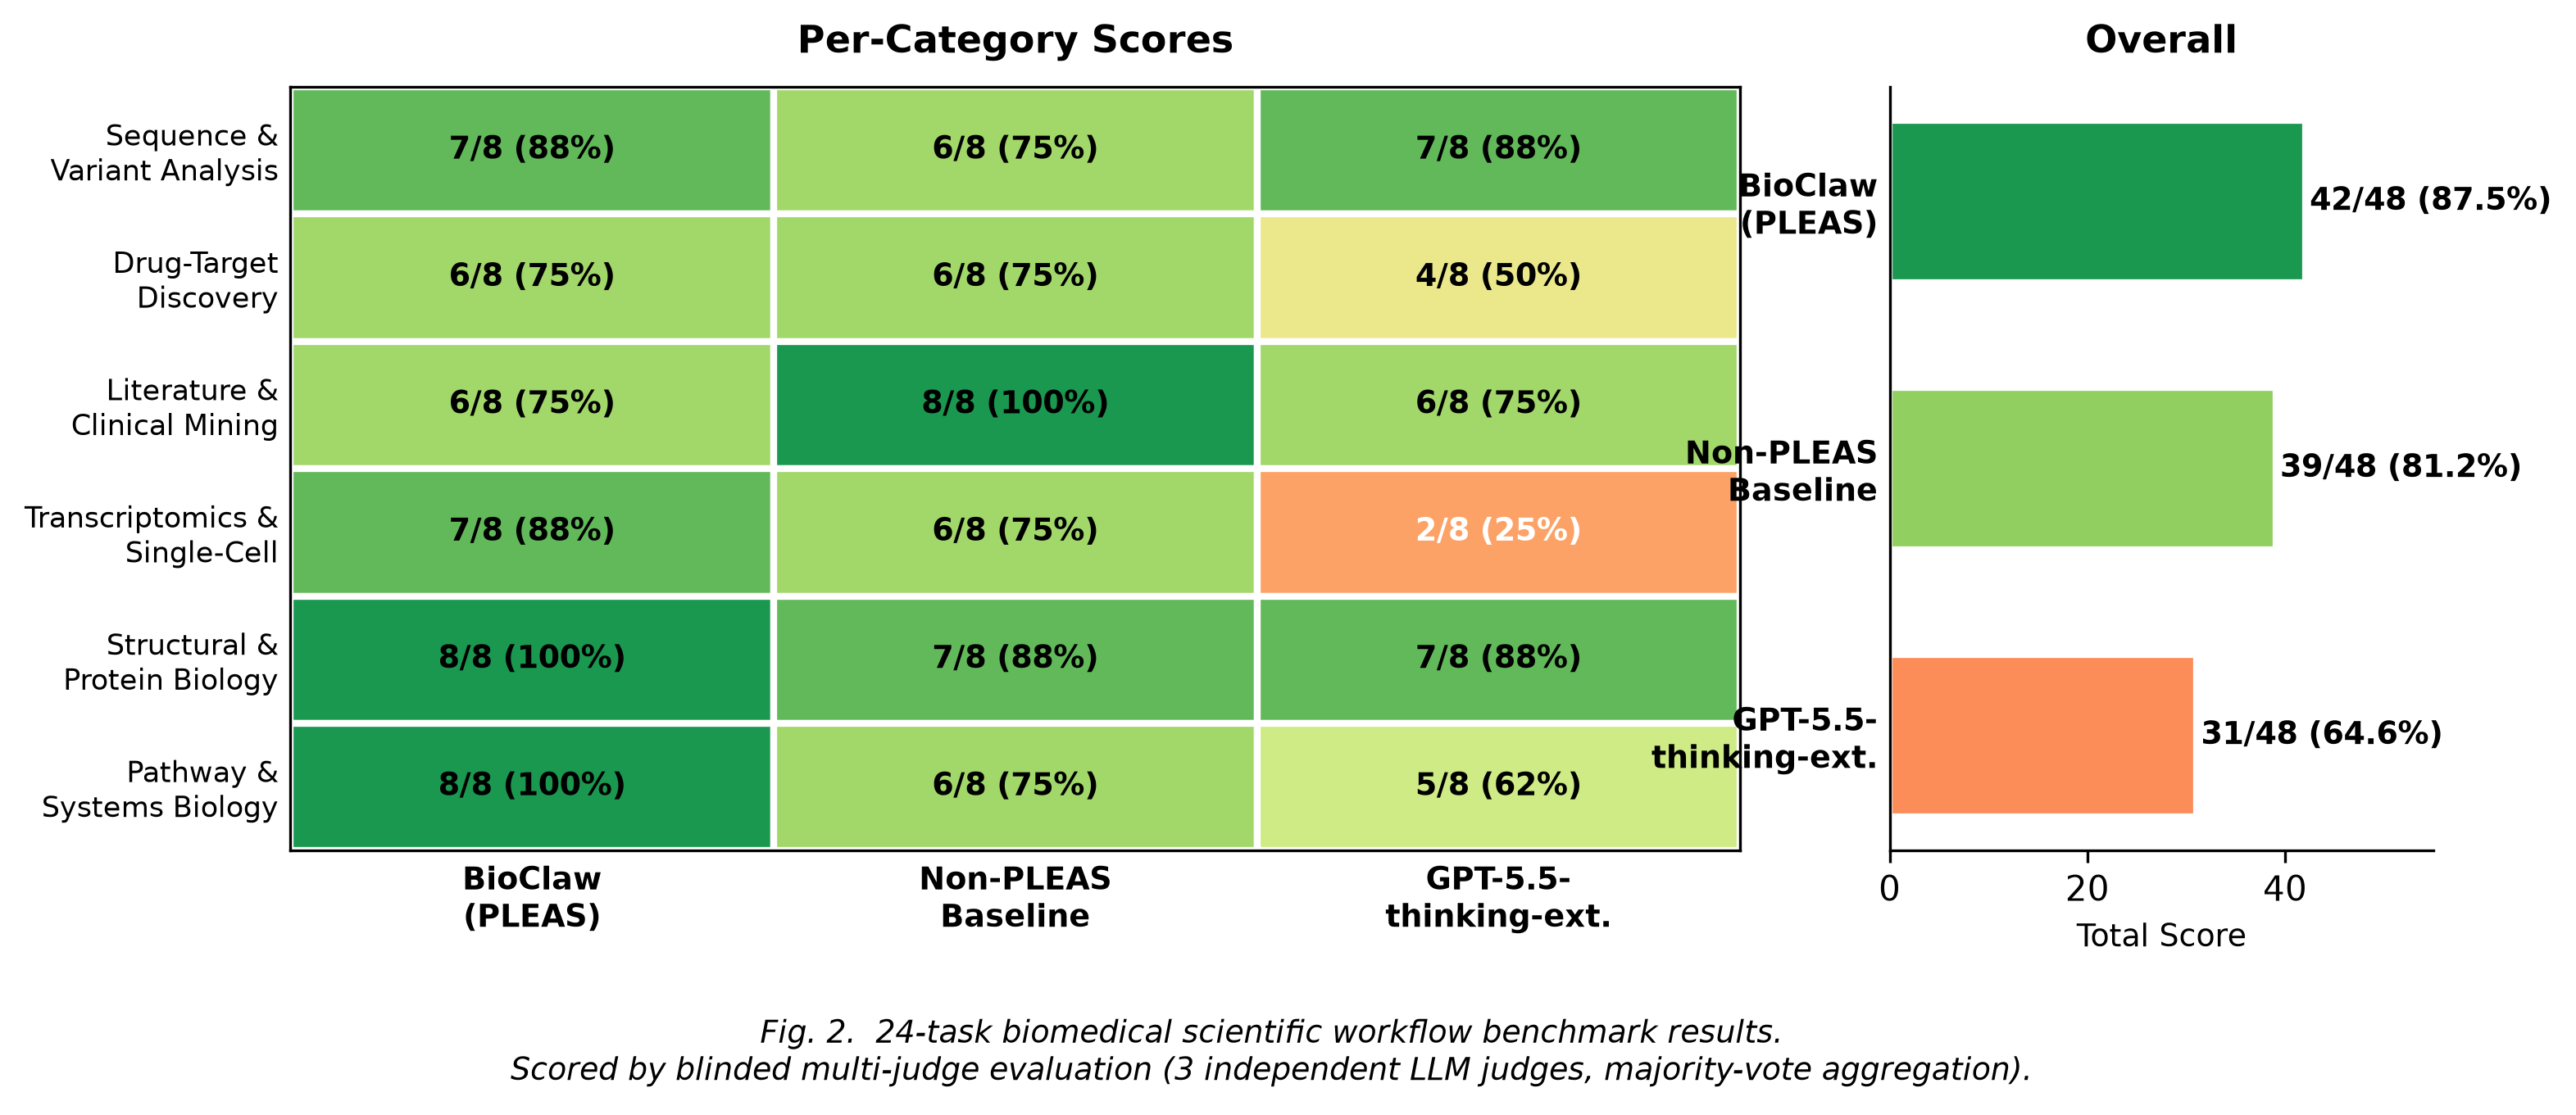
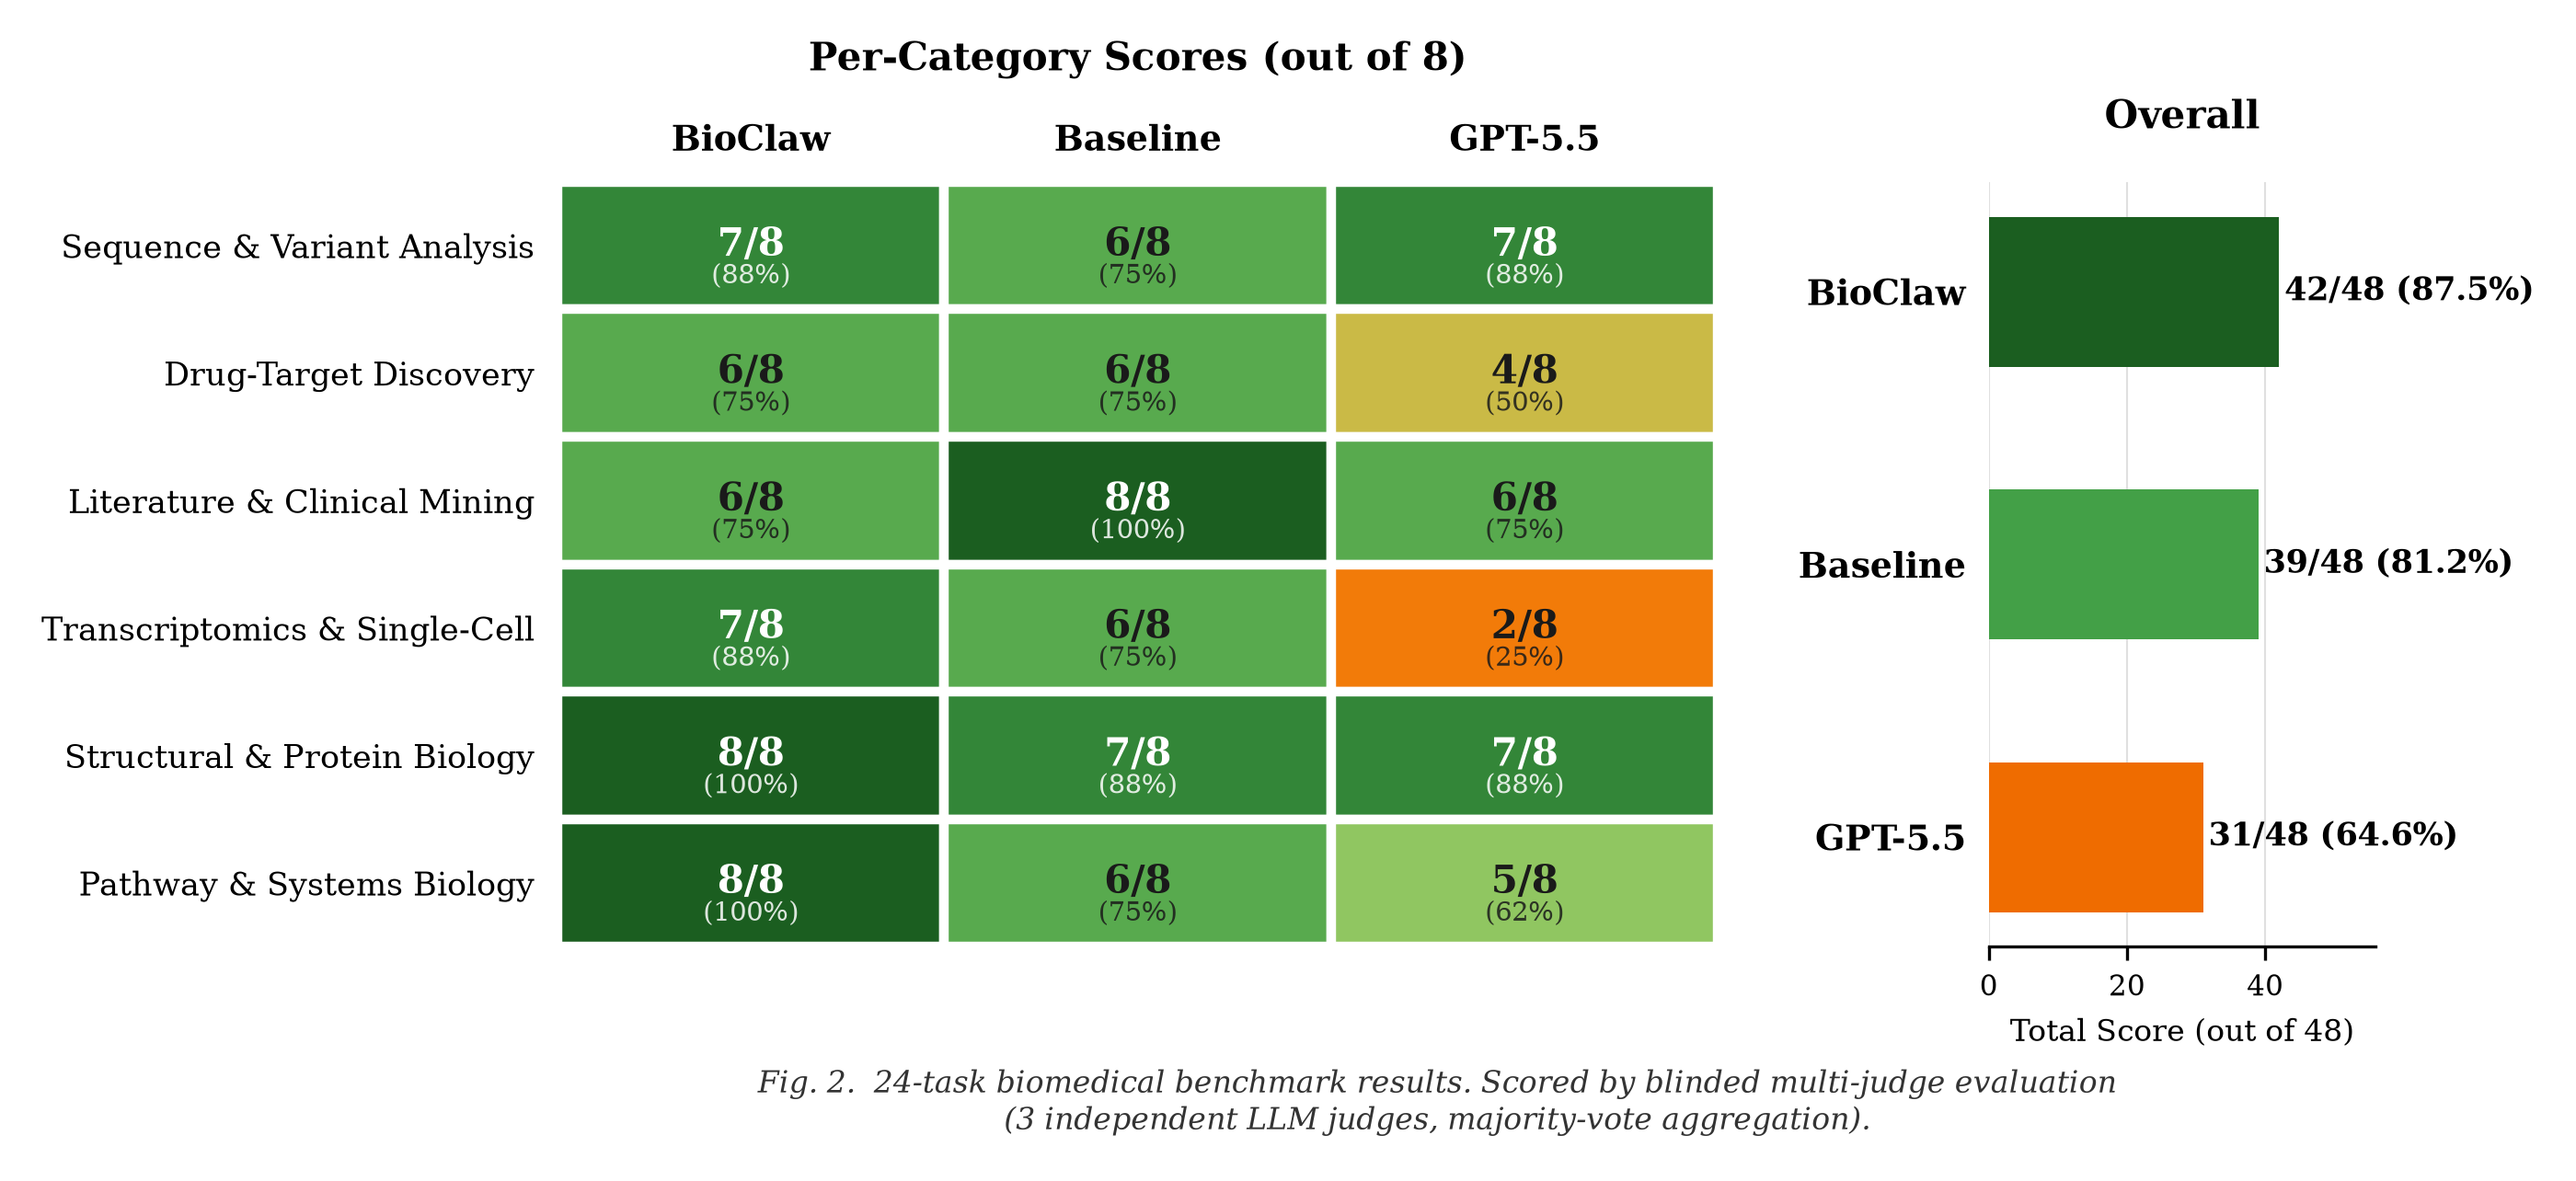
Improve Fig. 2 styling for IEEE publication quality
Serif font, separated score/percentage, cleaner layout,
top-aligned column headers, subtle gridlines on bar chart.

Claude-Session: https://claude.ai/code/session_01RjFyksQt4N4ugb6K1QDw8d

diff --git a/case_studies/figures/generate_fig2.py b/case_studies/figures/generate_fig2.py
@@ -9,97 +9,132 @@ import matplotlib.pyplot as plt
 import matplotlib.colors as mcolors
 import numpy as np
 
+plt.rcParams.update({
+    "font.family": "serif",
+    "font.serif": ["Times New Roman", "DejaVu Serif"],
+    "font.size": 9,
+    "axes.titlesize": 10,
+    "axes.labelsize": 9,
+    "figure.dpi": 300,
+})
+
 categories = [
-    "Sequence &\nVariant Analysis",
-    "Drug-Target\nDiscovery",
-    "Literature &\nClinical Mining",
-    "Transcriptomics &\nSingle-Cell",
-    "Structural &\nProtein Biology",
-    "Pathway &\nSystems Biology",
+    "Sequence & Variant Analysis",
+    "Drug-Target Discovery",
+    "Literature & Clinical Mining",
+    "Transcriptomics & Single-Cell",
+    "Structural & Protein Biology",
+    "Pathway & Systems Biology",
 ]
 
-systems = ["BioClaw\n(PLEAS)", "Non-PLEAS\nBaseline", "GPT-5.5-\nthinking-ext."]
+systems = ["BioClaw (PLEAS)", "Non-PLEAS Baseline", "GPT-5.5-thinking-ext."]
+sys_short = ["BioClaw", "Baseline", "GPT-5.5"]
 
 scores = np.array([
-    [7, 6, 7],  # Seq & Variant
-    [6, 6, 4],  # Drug-Target
-    [6, 8, 6],  # Lit & Clinical
-    [7, 6, 2],  # Transcriptomics
-    [8, 7, 7],  # Structural
-    [8, 6, 5],  # Pathway
+    [7, 6, 7],
+    [6, 6, 4],
+    [6, 8, 6],
+    [7, 6, 2],
+    [8, 7, 7],
+    [8, 6, 5],
 ])
 
 max_per_cat = 8
-totals = scores.sum(axis=0)  # [42, 39, 31]
+totals = scores.sum(axis=0)
 max_total = 48
-
 fractions = scores / max_per_cat
 
 cmap = mcolors.LinearSegmentedColormap.from_list(
-    "bench", ["#d73027", "#fc8d59", "#fee08b", "#d9ef8b", "#91cf60", "#1a9850"]
+    "bench", ["#c62828", "#ef6c00", "#f9a825", "#9ccc65", "#43a047", "#1b5e20"]
 )
 norm = mcolors.Normalize(vmin=0, vmax=1)
 
-fig, (ax_heat, ax_bar) = plt.subplots(
-    1, 2, figsize=(10.5, 4.2),
-    gridspec_kw={"width_ratios": [3.2, 1.2], "wspace": 0.15},
-)
+fig = plt.figure(figsize=(8.5, 3.6))
+gs = fig.add_gridspec(1, 2, width_ratios=[3, 1], wspace=0.35)
+ax_heat = fig.add_subplot(gs[0, 0])
+ax_bar = fig.add_subplot(gs[0, 1])
 
 for i in range(len(categories)):
     for j in range(len(systems)):
         val = fractions[i, j]
         color = cmap(norm(val))
-        ax_heat.add_patch(plt.Rectangle((j, i), 1, 1, facecolor=color, edgecolor="white", linewidth=2))
-        pct = int(round(scores[i, j] / max_per_cat * 100))
-        text_color = "white" if val < 0.4 else "black"
+        rect = plt.Rectangle(
+            (j, i), 1, 1, facecolor=color,
+            edgecolor="white", linewidth=2.5, clip_on=False,
+        )
+        ax_heat.add_patch(rect)
+        pct = int(round(val * 100))
+        lum = 0.299 * color[0] + 0.587 * color[1] + 0.114 * color[2]
+        text_color = "white" if lum < 0.45 else "#1a1a1a"
         ax_heat.text(
             j + 0.5, i + 0.5,
-            f"{scores[i, j]}/{max_per_cat} ({pct}%)",
-            ha="center", va="center", fontsize=9, fontweight="bold", color=text_color,
+            f"{scores[i, j]}/{max_per_cat}",
+            ha="center", va="center", fontsize=10,
+            fontweight="bold", color=text_color,
+        )
+        ax_heat.text(
+            j + 0.5, i + 0.74,
+            f"({pct}%)",
+            ha="center", va="center", fontsize=7,
+            color=text_color, alpha=0.85,
         )
 
 ax_heat.set_xlim(0, len(systems))
 ax_heat.set_ylim(0, len(categories))
 ax_heat.set_xticks([x + 0.5 for x in range(len(systems))])
-ax_heat.set_xticklabels(systems, fontsize=9, fontweight="bold")
+ax_heat.set_xticklabels(sys_short, fontsize=9, fontweight="bold")
+ax_heat.xaxis.set_ticks_position("top")
+ax_heat.xaxis.set_label_position("top")
 ax_heat.set_yticks([y + 0.5 for y in range(len(categories))])
 ax_heat.set_yticklabels(categories, fontsize=8.5)
 ax_heat.invert_yaxis()
-ax_heat.tick_params(axis="both", which="both", length=0)
-ax_heat.set_title("Per-Category Scores", fontsize=11, fontweight="bold", pad=10)
+ax_heat.tick_params(axis="both", which="both", length=0, pad=6)
+for spine in ax_heat.spines.values():
+    spine.set_visible(False)
+ax_heat.set_title("Per-Category Scores (out of 8)", fontsize=10, fontweight="bold", pad=14)
 
-bar_colors = ["#1a9850", "#91cf60", "#fc8d59"]
+bar_colors = ["#1b5e20", "#43a047", "#ef6c00"]
+y_pos = np.arange(len(systems))
 bars = ax_bar.barh(
-    range(len(systems)), totals, color=bar_colors,
-    edgecolor="white", linewidth=1.5, height=0.6,
+    y_pos, totals, color=bar_colors,
+    edgecolor="none", height=0.55, zorder=3,
 )
 
 for idx, (bar, total) in enumerate(zip(bars, totals)):
     pct = round(total / max_total * 100, 1)
     ax_bar.text(
-        total + 0.5, bar.get_y() + bar.get_height() / 2,
+        total + 0.8, bar.get_y() + bar.get_height() / 2,
         f"{total}/{max_total} ({pct}%)",
-        ha="left", va="center", fontsize=9, fontweight="bold",
+        ha="left", va="center", fontsize=8.5, fontweight="bold",
     )
 
-ax_bar.set_yticks(range(len(systems)))
-ax_bar.set_yticklabels(systems, fontsize=9, fontweight="bold")
-ax_bar.set_xlim(0, 55)
-ax_bar.set_xlabel("Total Score", fontsize=9)
-ax_bar.set_title("Overall", fontsize=11, fontweight="bold", pad=10)
+ax_bar.set_yticks(y_pos)
+ax_bar.set_yticklabels(sys_short, fontsize=9, fontweight="bold")
+ax_bar.set_xlim(0, 56)
+ax_bar.set_xlabel("Total Score (out of 48)", fontsize=8)
+ax_bar.set_title("Overall", fontsize=10, fontweight="bold", pad=14)
 ax_bar.invert_yaxis()
-ax_bar.tick_params(axis="y", which="both", length=0)
+ax_bar.tick_params(axis="y", which="both", length=0, pad=6)
+ax_bar.tick_params(axis="x", which="both", labelsize=7.5)
 ax_bar.spines["top"].set_visible(False)
 ax_bar.spines["right"].set_visible(False)
+ax_bar.spines["left"].set_visible(False)
+ax_bar.grid(axis="x", color="#e0e0e0", linewidth=0.5, zorder=0)
 
 fig.text(
-    0.5, -0.02,
-    "Fig. 2.  24-task biomedical scientific workflow benchmark results.\n"
-    "Scored by blinded multi-judge evaluation (3 independent LLM judges, majority-vote aggregation).",
-    ha="center", va="top", fontsize=9, style="italic",
+    0.5, -0.01,
+    "Fig. 2.  24-task biomedical benchmark results. "
+    "Scored by blinded multi-judge evaluation\n"
+    "(3 independent LLM judges, majority-vote aggregation).",
+    ha="center", va="top", fontsize=8, style="italic", color="#333333",
 )
 
-fig.subplots_adjust(bottom=0.14, left=0.12, right=0.95)
-plt.savefig("/home/user/PLEAS/case_studies/figures/fig2_benchmark.png", dpi=300, bbox_inches="tight")
-plt.savefig("/home/user/PLEAS/case_studies/figures/fig2_benchmark.pdf", bbox_inches="tight")
+plt.savefig(
+    "/home/user/PLEAS/case_studies/figures/fig2_benchmark.png",
+    dpi=300, bbox_inches="tight", facecolor="white", pad_inches=0.15,
+)
+plt.savefig(
+    "/home/user/PLEAS/case_studies/figures/fig2_benchmark.pdf",
+    bbox_inches="tight", facecolor="white", pad_inches=0.15,
+)
 print("Saved fig2_benchmark.png and fig2_benchmark.pdf")